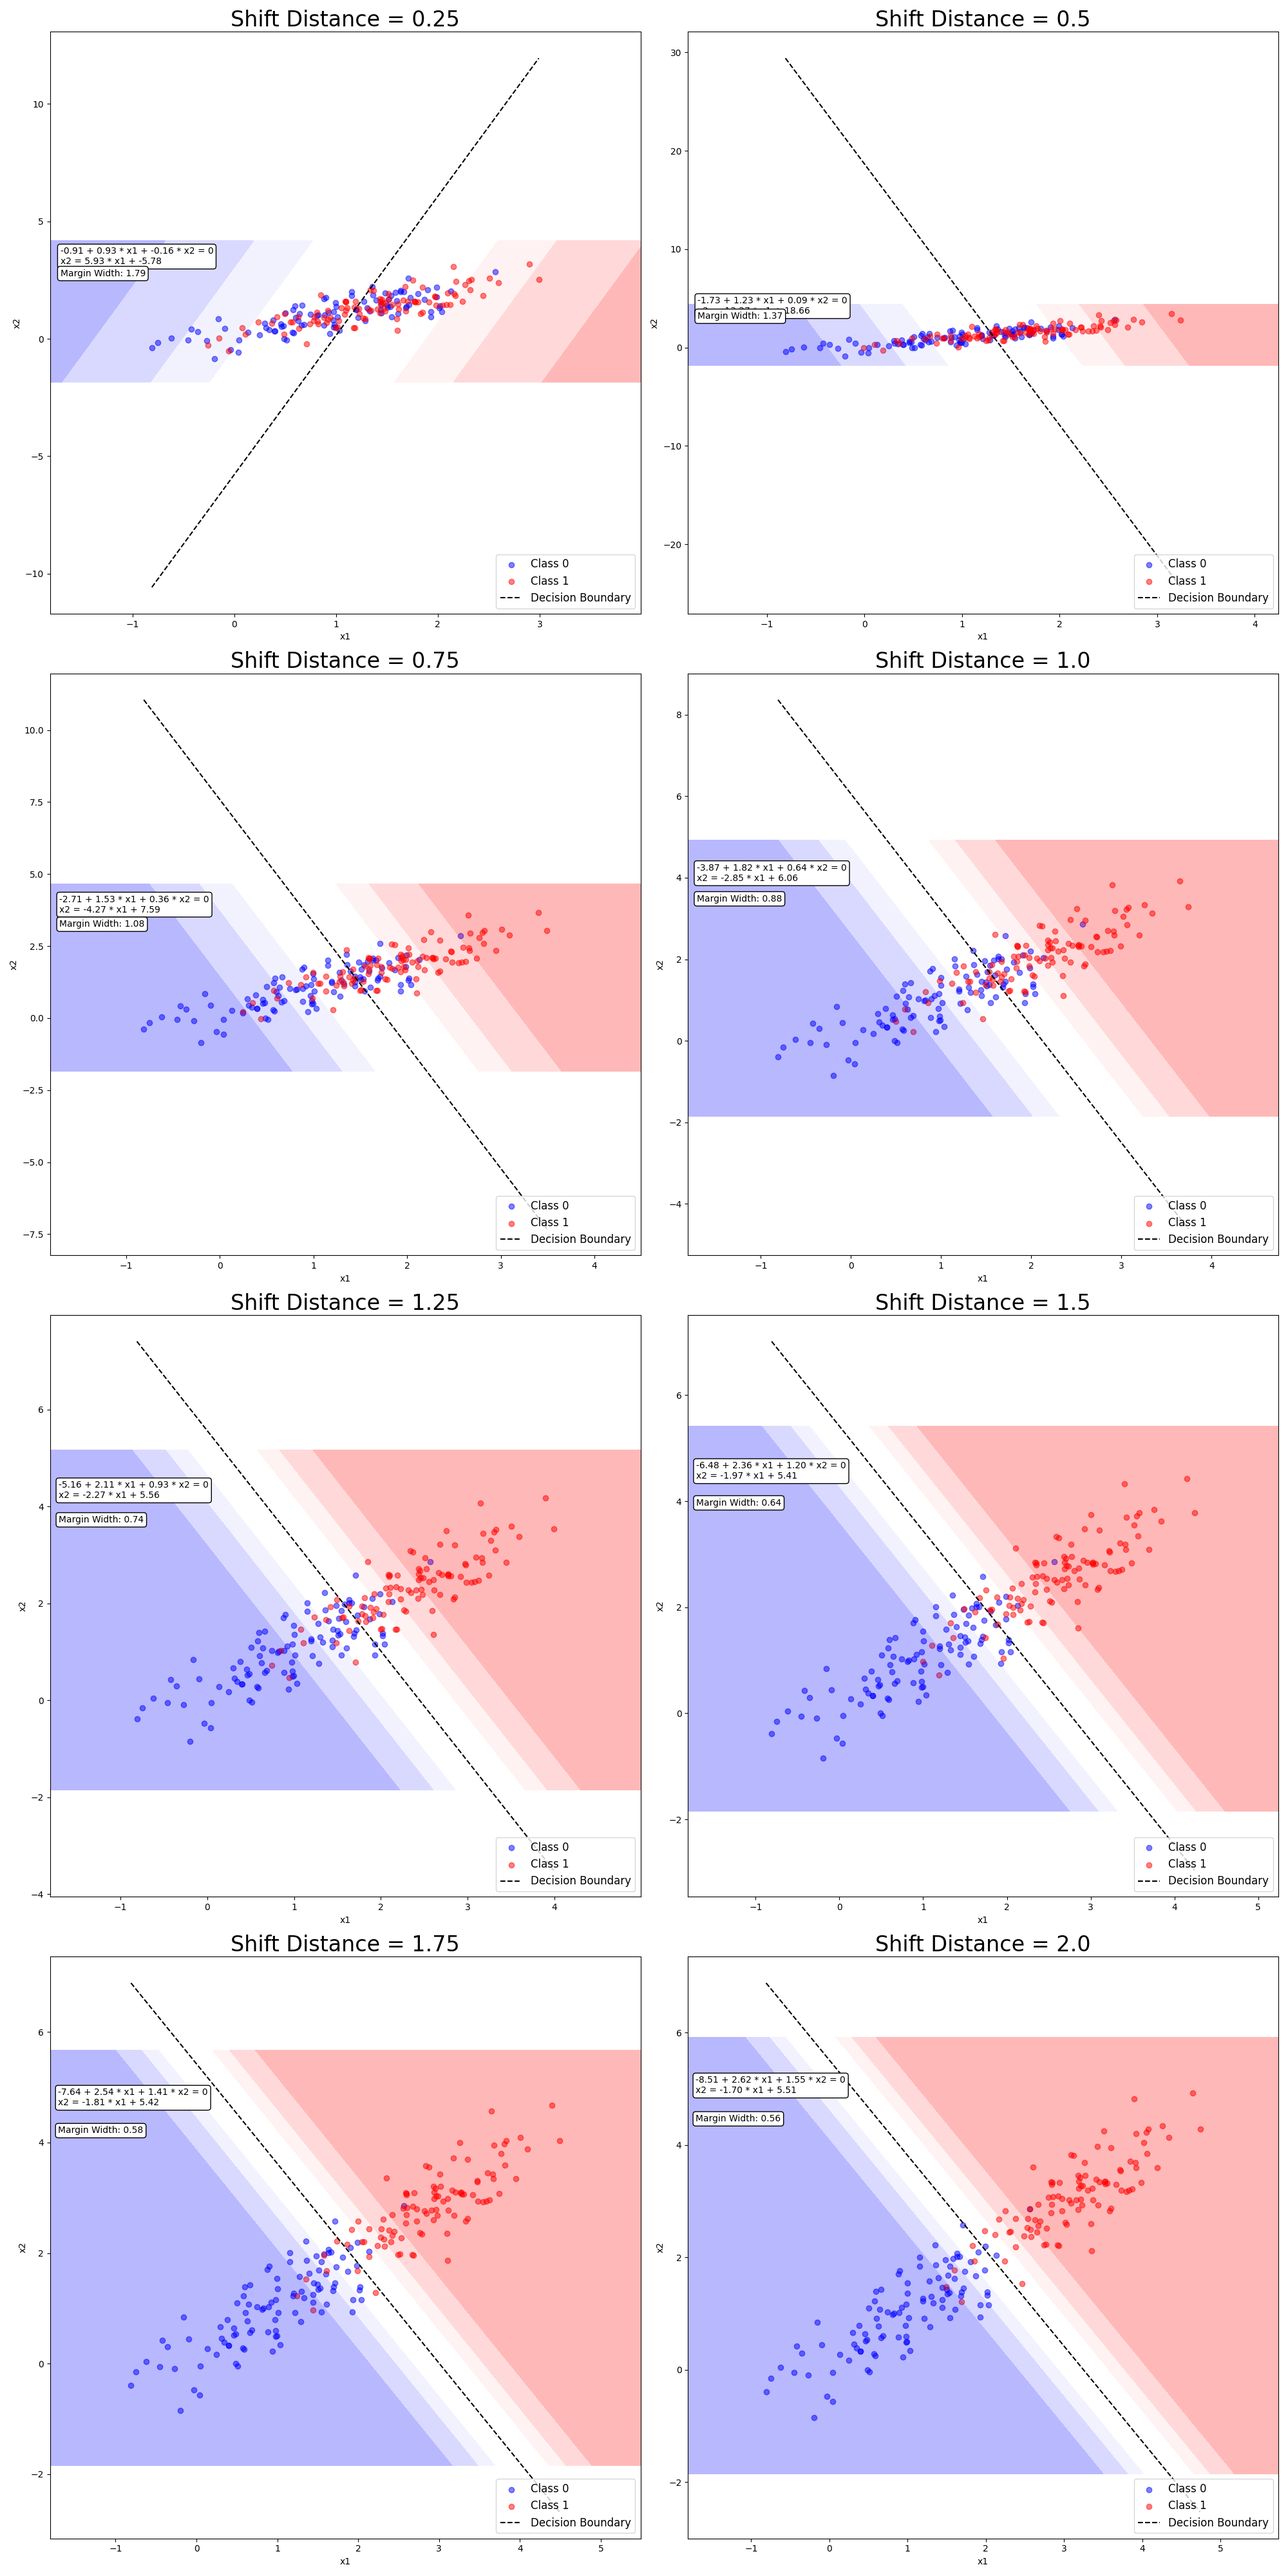
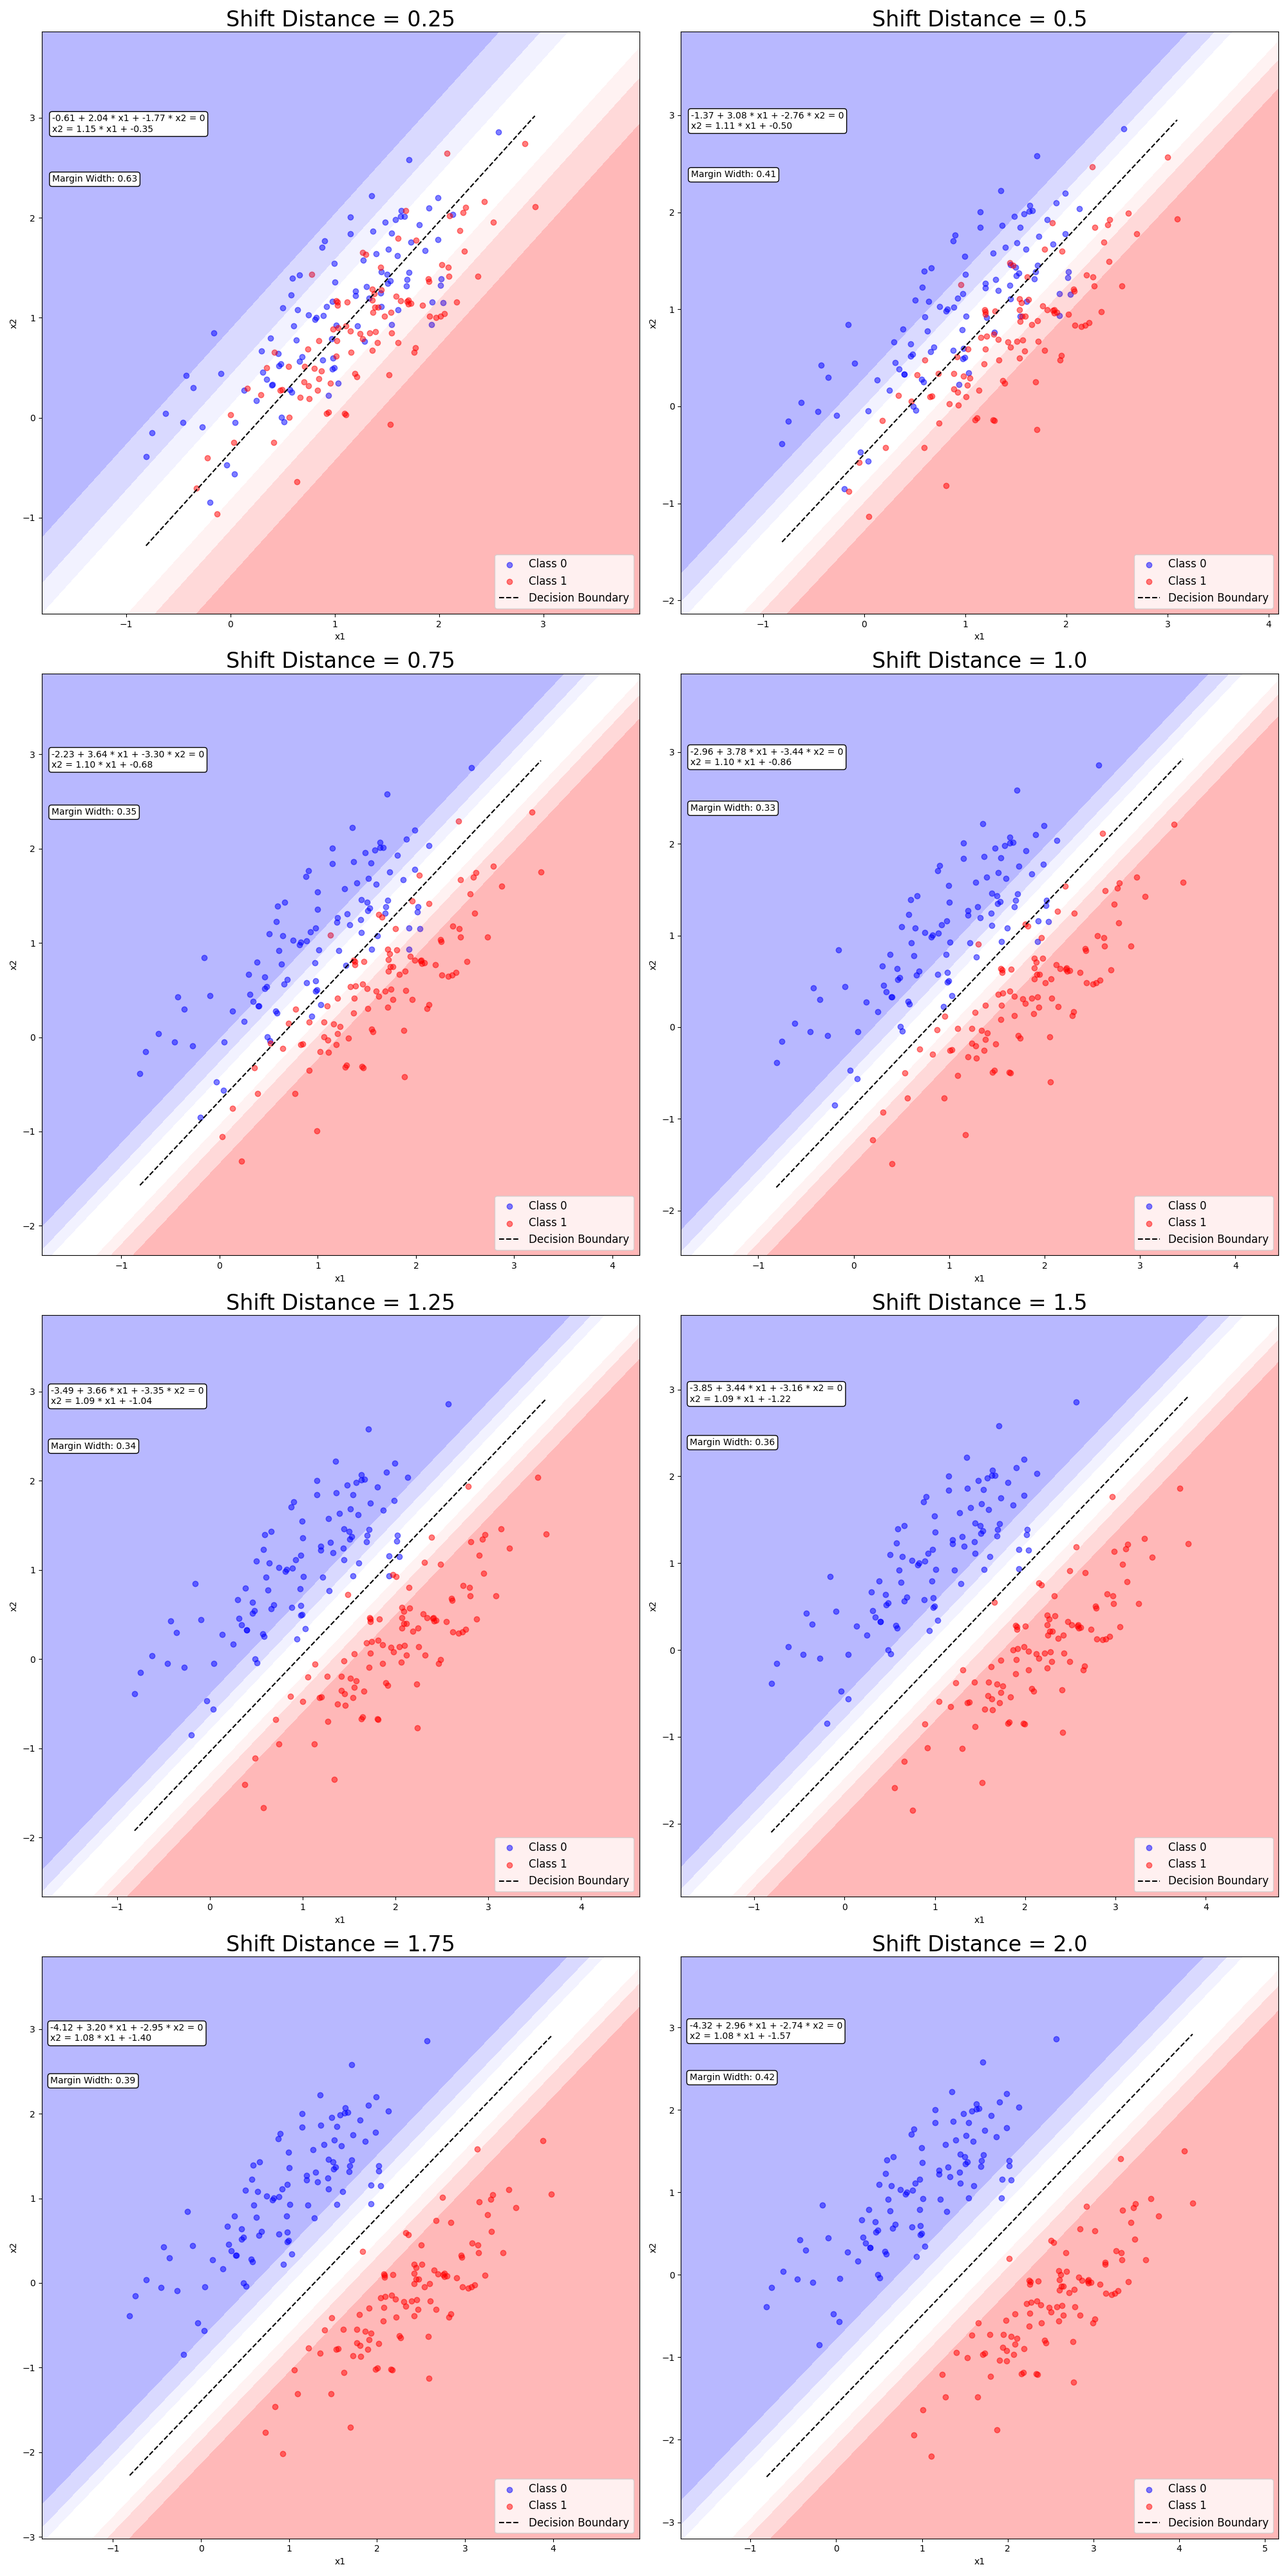
Finished TODOs

diff --git a/logistic_regression.py b/logistic_regression.py
@@ -16,12 +16,13 @@ def generate_ellipsoid_clusters(distance, n_samples=100, cluster_std=0.5):
     covariance_matrix = np.array([[cluster_std, cluster_std * 0.8], 
                                   [cluster_std * 0.8, cluster_std]])
     
-    # Generate the first cluster (class 0)
+     # Generate the first cluster (class 0)
     X1 = np.random.multivariate_normal(mean=[1, 1], cov=covariance_matrix, size=n_samples)
     y1 = np.zeros(n_samples)
 
-    # Generate the second cluster (class 1) and shift it
-    X2 = np.random.multivariate_normal(mean=[1 + distance, 1 + distance], cov=covariance_matrix, size=n_samples)
+    # Generate the second cluster (class 1) and shift it along y = -x
+    shift = distance / np.sqrt(2)
+    X2 = np.random.multivariate_normal(mean=[1 + shift, 1 - shift], cov=covariance_matrix, size=n_samples)
     y2 = np.ones(n_samples)
 
     # Combine the clusters into one dataset
